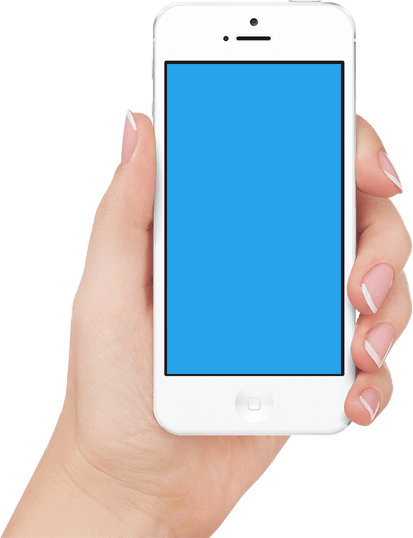
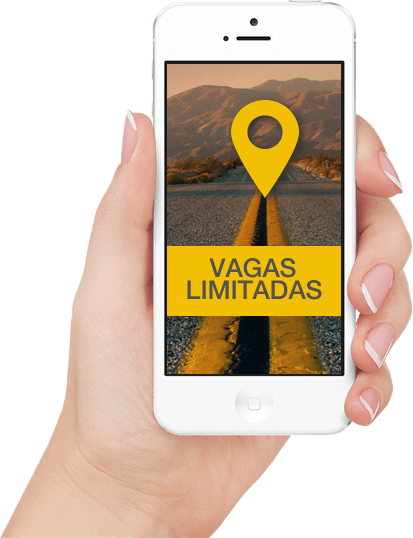
Altera imagens

Changed region(s): [[0.4068, 0.119, 0.8426, 0.7138]]

diff --git a/src/index.html b/src/index.html
@@ -38,7 +38,7 @@
                             <h2>Faça parte da <b>evolução</b> do transporte escolar</h2>
                             <p>Cadastre-se agora e esteja entre os primeiros</p>
                             <a href="#formulario">
-                                <img class="center-block" src="assets/images/offerta.jpg" alt="">
+                                <img class="center-block" src="assets/images/oferta.png" alt="">
                             </a>
                         </div>
 
